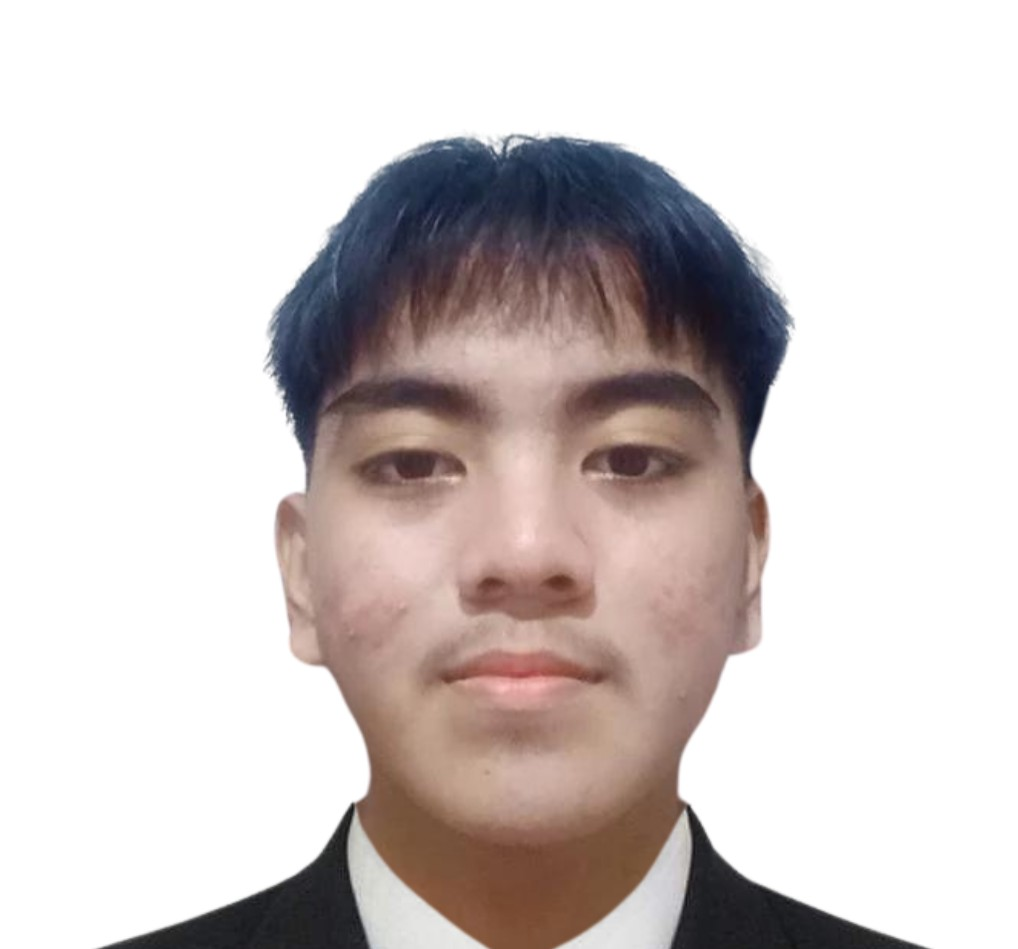
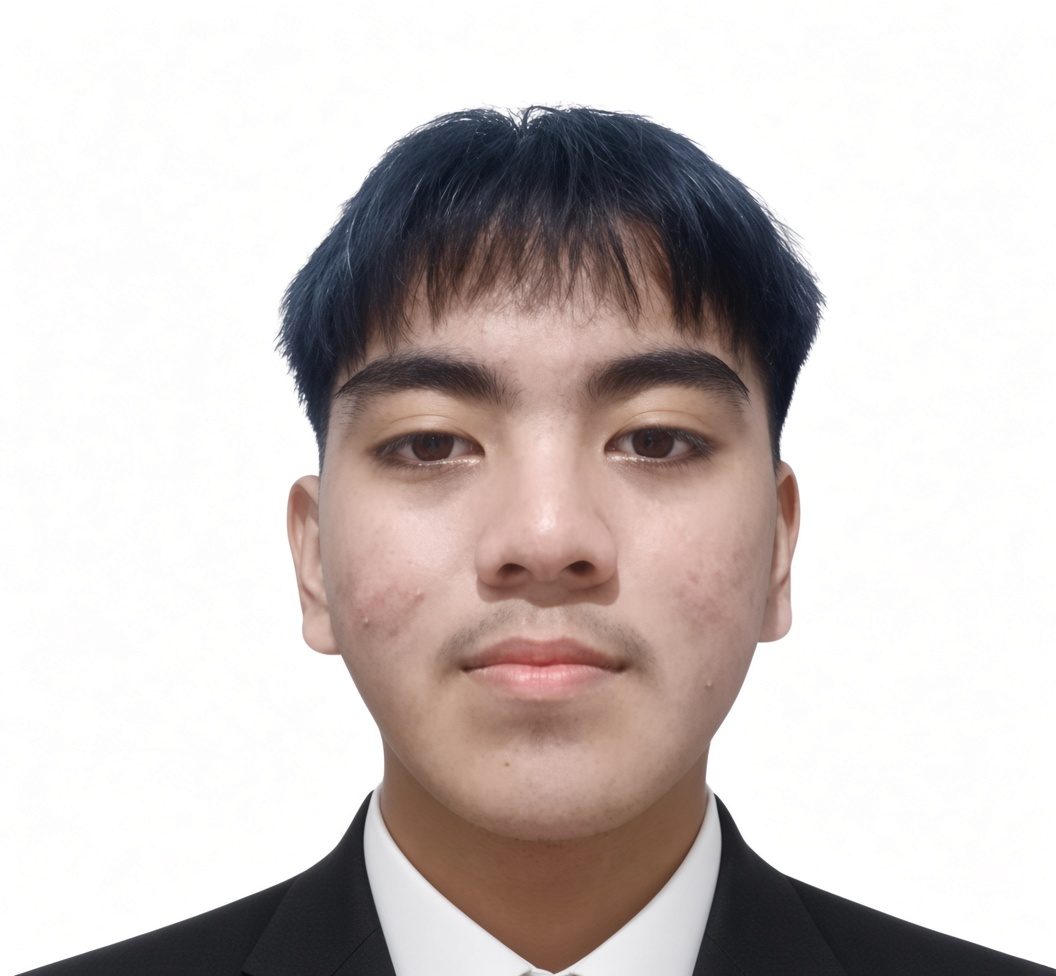
Changes for aboutUs ver1.2

Changed region(s): [[0.0305, 0.0917, 1.0, 1.0], [0.6395, 0.9473, 0.6699, 1.0], [0.6395, 0.5806, 0.6699, 0.6417]]

diff --git a/about-us.php b/about-us.php
@@ -34,7 +34,7 @@ $team_members = [
         'student_id' => '2025-2-000091',
         'section' => 'BSIS201',
         'email' => 'jrcruzpe@kld.edu.ph',
-        'image' => 'assets/img/developers/member3.svg',
+        'image' => 'assets/img/developers/CRUZPE.jpg',
         'bio' => 'Specializes in user authentication flows, dynamic real-time password strength algorithms, and account security.',
         'tasks' => ['Password Strength Meter JS', 'Multi-Role Login & Register', 'Forgot Password Flow']
     ],
@@ -51,10 +51,10 @@ $team_members = [
     [
         'name' => 'Salognon, Joeven',
         'role' => 'Department & Hiring Workflow Engineer',
-        'student_id' => '2024-00105',
+        'student_id' => '2025-2-000269',
         'section' => 'BSIS201',
-        'email' => 'employer.ux@kld.edu.ph',
-        'image' => 'assets/img/developers/member5.svg',
+        'email' => 'jsalognon@kld.edu.ph',
+        'image' => 'assets/img/developers/SOLOGNON.jpg',
         'bio' => 'Builds the campus office portal, vacancy posting forms, candidate evaluation drawers, and interview scheduling triggers.',
         'tasks' => ['Employer Dashboard', 'Create & Edit Job Forms', 'Applicant Review Suite']
     ],
